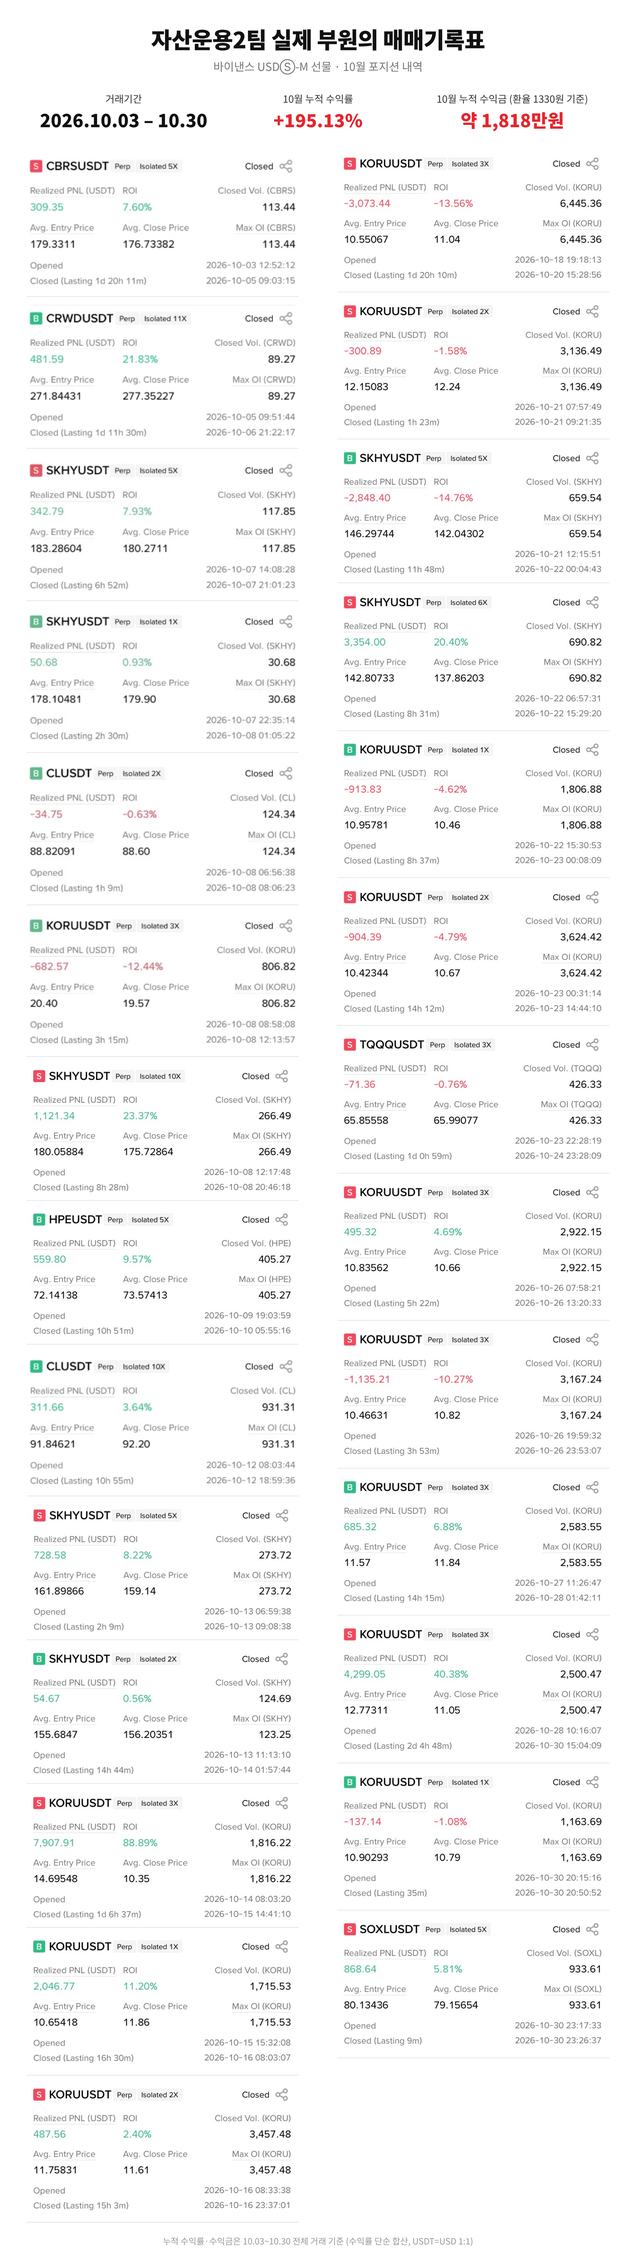
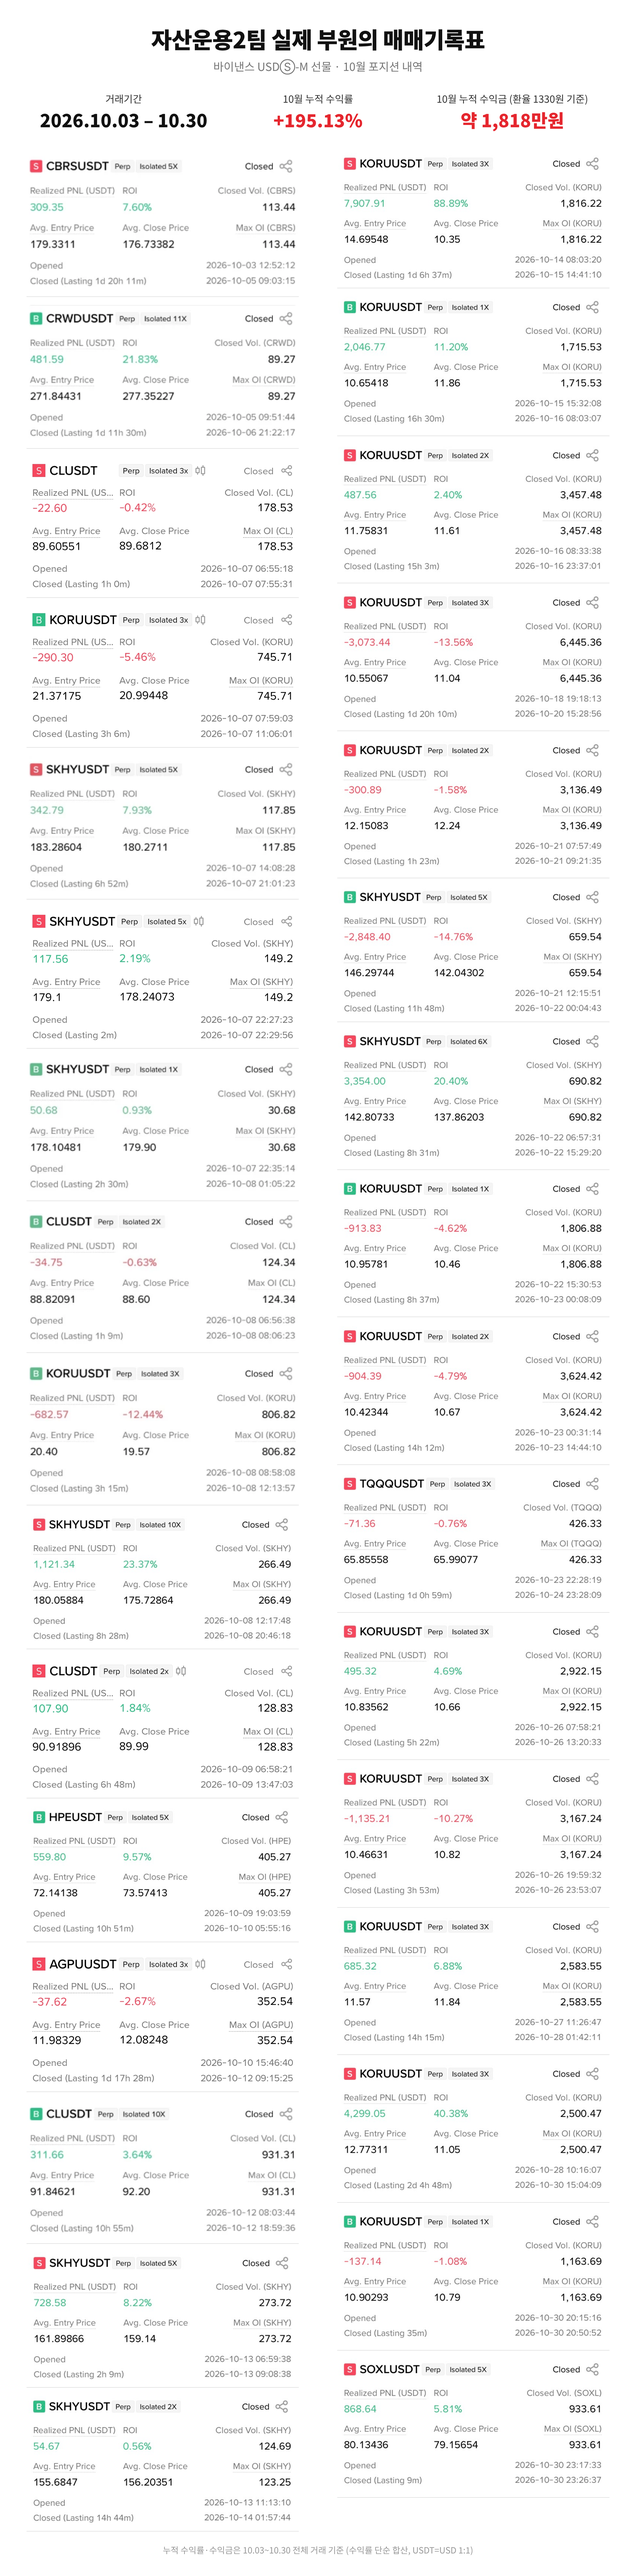
Oct record sheet: add 5 missing 10.07-10.12 trades (32 cards)
Claude-Session: https://claude.ai/code/session_01LWQ9ii3FPVmVJ5nRFLDiTo

Changed region(s): [[0.0312, 0.0, 0.9375, 0.9962], [0.6875, 0.9339, 0.7188, 0.9651]]

diff --git a/README.md b/README.md
@@ -85,4 +85,4 @@
 - `team_records.xlsx` — 최신 엑셀.
 - `1A_team1_poster.png`, `1B_team2_poster.png` — 최종 화면 캡처.
 - `team2_trades_nov.png` — 2팀 11월 매매기록표(바이낸스 캡처 모음, 10월 기록표와 같은 흰 배경 양식). 누적 수익률·수익금은 10.03~11.20 기준.
-- `team2_trades_oct.png` — 2팀 10월 매매기록표(10.03~10.30, 27건). 누적 수익률·수익금은 10.03~10.30 전체 기준.
+- `team2_trades_oct.png` — 2팀 10월 매매기록표(10.03~10.30, 32건). 누적 수익률·수익금은 10.03~10.30 전체 기준.
